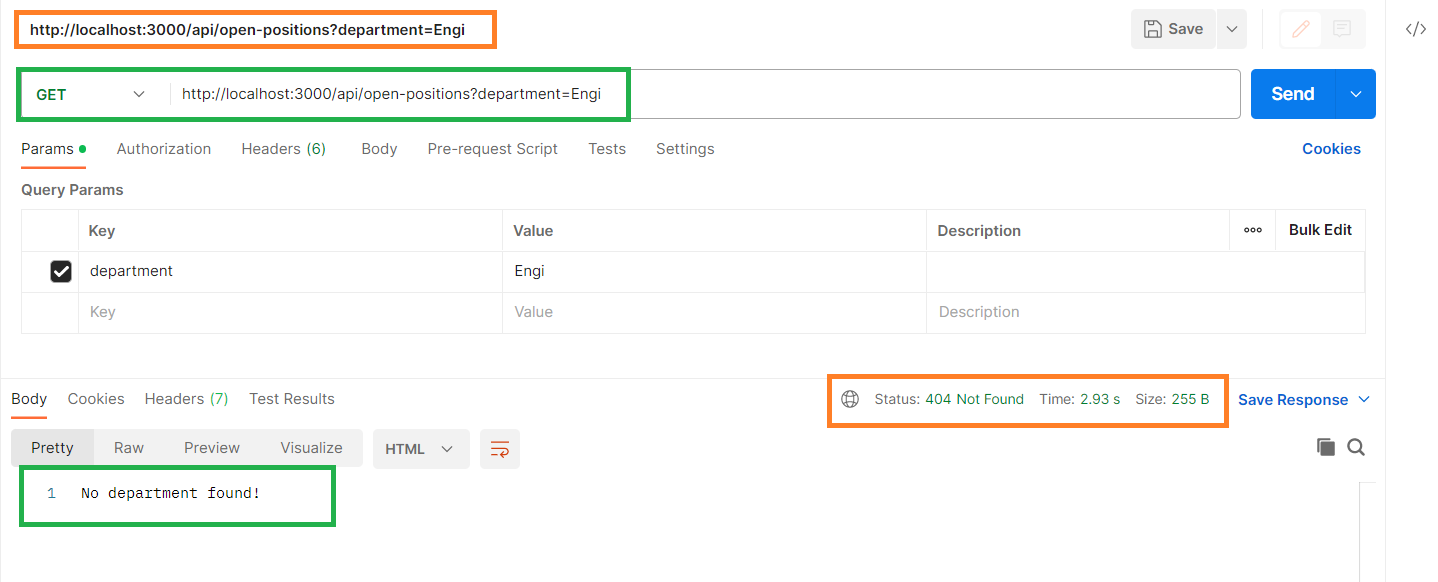
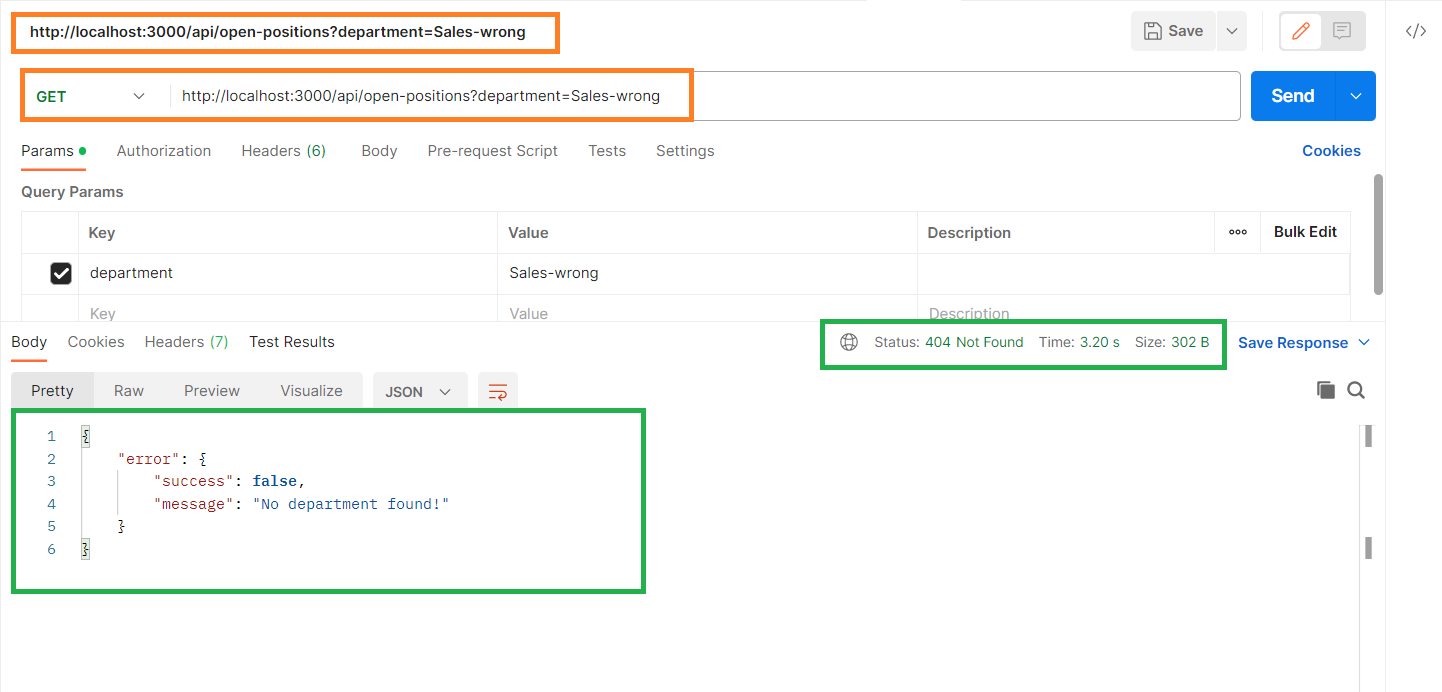
update openapi schema

diff --git a/app/controllers/openPosition.js b/app/controllers/openPosition.js
@@ -1,13 +1,15 @@
 const rp = require('request-promise');
 const config = require('../config');
 const utility = require('../../utility');
-
+const error = new Error();
 module.exports = {
     async getDepartmentDetails(req, res, next) {
         try {
             let { department } = req.query;
             if (!department) {
-                return res.status(400).send('Department is required!');
+                error.statusCode = 400;
+                error.message = 'Department is required!';
+                return next(error);
             }
             department = department.trim();
 
@@ -16,13 +18,17 @@ module.exports = {
             const results = await utility.getOpenPositions(html, department);
 
             if (results.allDepartments.length === 0 || !results.allDepartments.includes(department)) {
-                return res.status(404).send('No department found!');
+                error.statusCode = 404;
+                error.message = 'No department found!';
+                return next(error);
             }
 
             if (results.openPositions.length > 0) {
-                return res.status(200).json(results.openPositions);
+                return res.status(200).json({ result: results.openPositions });
             } else {
-                return res.status(404).send(`No open positions found for department "${department}"`);
+                error.statusCode = 404;
+                error.message = `No open positions found for department "${department}"`;
+                return next(error);
             }
         } catch (err) {
             next(err);

diff --git a/tests/openPositions.test.js b/tests/openPositions.test.js
@@ -8,7 +8,8 @@ describe('Actian Careers API Integration Tests', async () => {
         supertest(app).get(`/api/open-positions?department=${config.department}`)
             .end((err, res) => {
                 expect(res.statusCode).to.equal(200);
-                expect(res.body).to.be.an('array');
+                expect(res.body).to.be.an('object');
+                expect(res.body).to.have.own.property('result');
                 expect(res.body).not.to.be.empty;
                 done();
             });

diff --git a/app/middlewares/errorHandler.js b/app/middlewares/errorHandler.js
@@ -5,10 +5,8 @@ const errorHandler = (err, req, res, next) => {
     const message = err.message || 'Internal Server Error';
 
     res.status(status).json({
-        error: {
-            success: status === 200 ? true : false,
-            message: message
-        }
+        success: status === 200 ? true : false,
+        message: message
     });
 };
 
